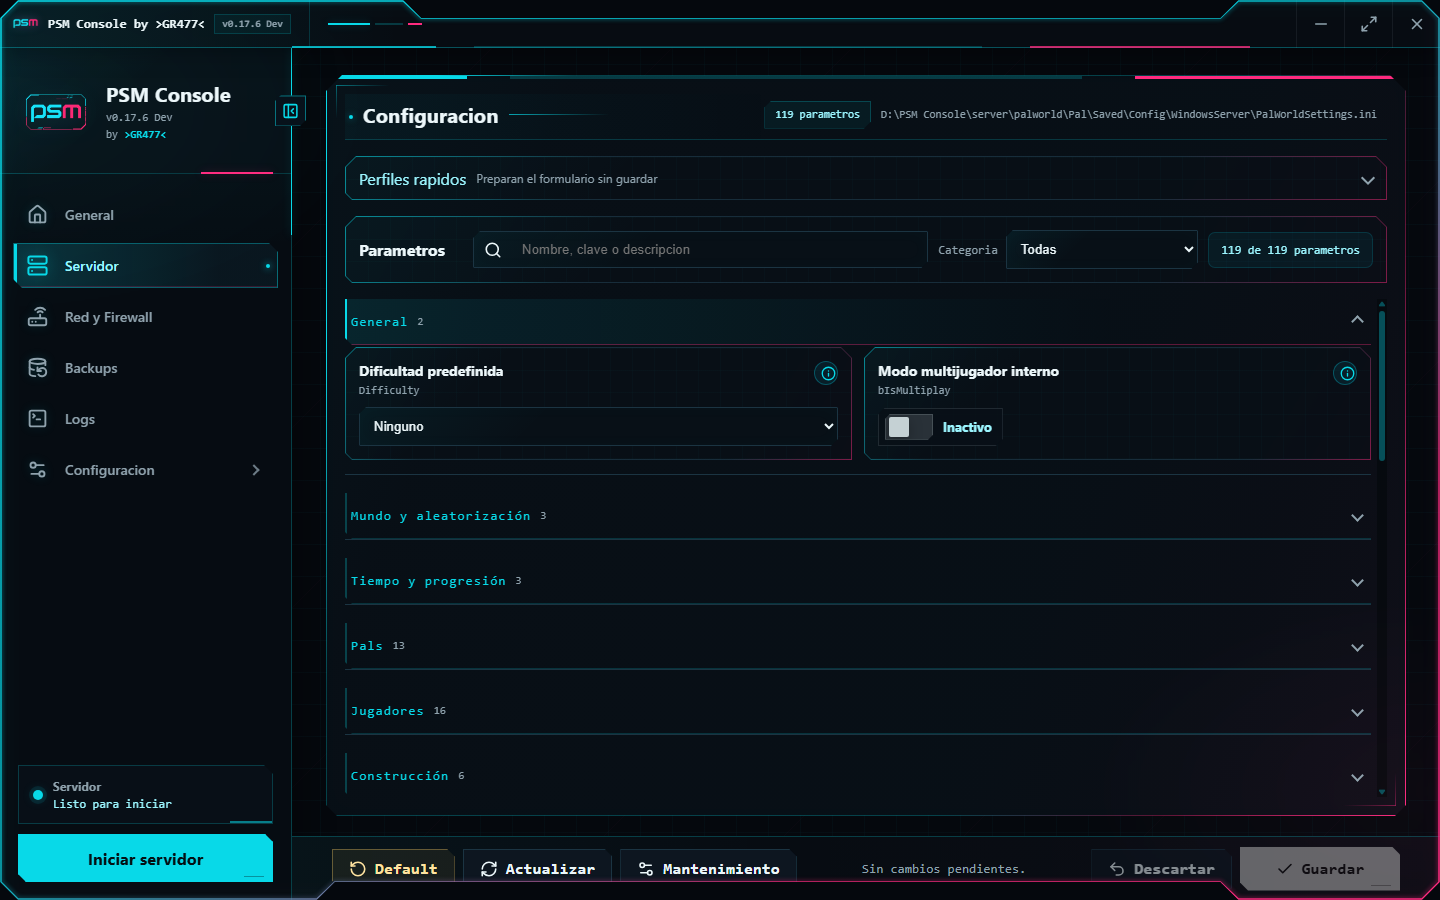
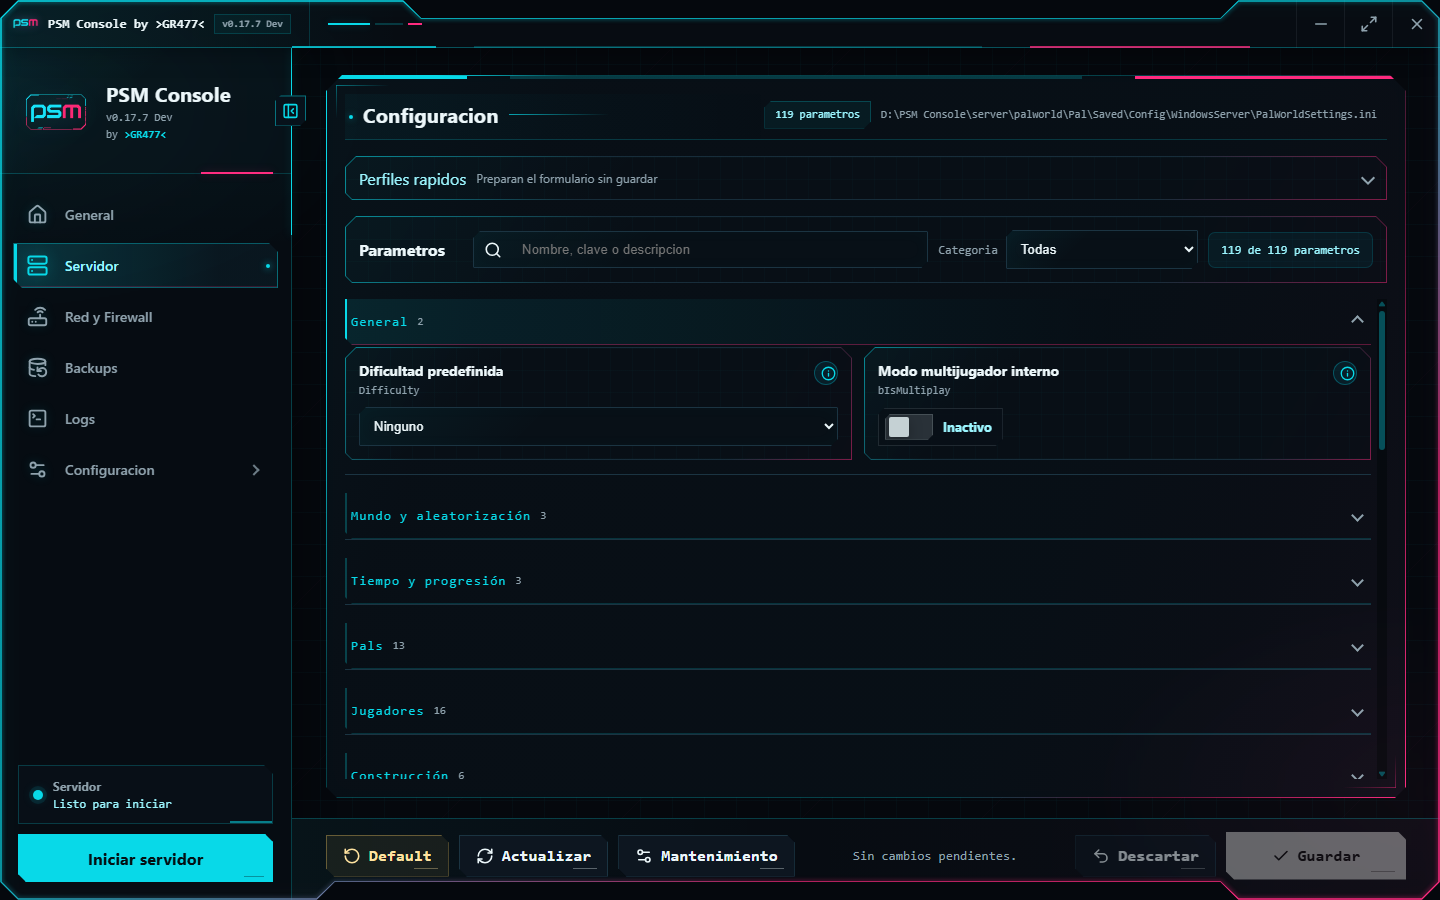
fix(ui): separa acciones de la silueta

Changed region(s): [[0.2188, 0.8711, 1.0, 0.9956]]

diff --git a/scripts/capture-responsive-screenshots.js b/scripts/capture-responsive-screenshots.js
@@ -13,8 +13,8 @@ const viewports = [
   { name: 'vertical', width: 1100, height: 1200 }
 ];
 const views = [
-  { name: 'general', nav: 'home' },
-  { name: 'servidor', nav: 'server' },
+  { name: 'general', nav: 'home', readySelector: '.general-primary-grid' },
+  { name: 'servidor', nav: 'server', readySelector: '.settings-group' },
   { name: 'red-firewall', nav: 'network' },
   { name: 'backups', nav: 'backups' },
   { name: 'logs', nav: 'logs' },
@@ -31,8 +31,8 @@ const views = [
   }
 ];
 const manualViews = [
-  { name: 'general', selector: '.sidebar__link[data-nav="home"]', waitMs: 1200 },
-  { name: 'servidor', selector: '.sidebar__link[data-nav="server"]', waitMs: 1200 },
+  { name: 'general', selector: '.sidebar__link[data-nav="home"]', readySelector: '.general-primary-grid', waitMs: 1200 },
+  { name: 'servidor', selector: '.sidebar__link[data-nav="server"]', readySelector: '.settings-group', waitMs: 1200 },
   { name: 'red-firewall', selector: '.sidebar__link[data-nav="network"]', waitMs: 5500 },
   { name: 'backups', selector: '.sidebar__link[data-nav="backups"]', waitMs: 1200 },
   { name: 'logs', selector: '.sidebar__link[data-nav="logs"]', waitMs: 900, fixtureLogs: true },
@@ -102,6 +102,9 @@ async function capture(window, viewport, view) {
     `);
     await waitForSelector(window, `${view.selector}.sidebar__link--active`);
     await wait(500);
+  }
+  if (view.readySelector) {
+    await waitForSelector(window, view.readySelector, 30000);
   }
   const image = await capturePageWithRetry(window);
   writeFileSync(
@@ -329,6 +332,9 @@ async function waitForEnabledNavigation(window, nav, timeoutMs = 30000) {
 async function writeManualScreenshot(window, outputDir, view) {
   await openManualView(window, view);
   await waitForSelectorRemoved(window, '.view-loading-overlay');
+  if (view.readySelector) {
+    await waitForSelector(window, view.readySelector, 30000);
+  }
   if (view.name === 'servidor') {
     await window.webContents.executeJavaScript(`
       (() => {
@@ -356,6 +362,15 @@ async function captureManualScreenshots(window) {
   mkdirSync(manualOutputDir, { recursive: true });
   window.setSize(1440, 900);
   await wait(400);
+
+  if (requestedView && requestedView !== 'general') {
+    const generalView = manualViews.find((view) => view.name === 'general');
+    if (generalView) {
+      await openManualView(window, generalView);
+      await waitForSelectorRemoved(window, '.view-loading-overlay');
+      await waitForSelector(window, generalView.readySelector, 30000);
+    }
+  }
 
   for (const view of selectedViews) {
     await writeManualScreenshot(window, manualOutputDir, view);

diff --git a/src/renderer/styles.css b/src/renderer/styles.css
@@ -5808,15 +5808,20 @@ html.window-maximized .tactical-window-frame {
 .app-footer--server:not(.app-footer--confirm) {
   display: grid;
   grid-template-columns: minmax(0, auto) minmax(150px, 1fr) minmax(0, auto);
-  gap: 16px;
-  padding-block: 8px;
+  gap: 18px;
+  min-height: 82px;
+  padding: 10px clamp(22px, 3vw, 34px) 18px;
 }
 
 .server-footer__actions {
   display: flex;
   align-items: center;
-  gap: 8px;
+  gap: 10px;
   min-width: 0;
+}
+
+.app-footer--server .server-footer__actions .secondary-button {
+  min-height: 42px;
 }
 
 .server-footer__actions--maintenance {
@@ -5835,13 +5840,24 @@ html.window-maximized .tactical-window-frame {
 }
 
 .app-footer--server #save-config {
-  min-width: 160px;
-  min-height: 44px;
-  padding-inline: 28px;
+  min-width: 180px;
+  min-height: 48px;
+  padding-inline: 34px;
 }
 
 .app-footer--server #discard-config {
   min-width: 124px;
+}
+
+.app-footer--server .primary-button::after,
+.app-footer--server .secondary-button::after {
+  right: 10px;
+  bottom: 7px;
+  width: 24px;
+}
+
+#app.app--footer-visible:has(.app-footer--server:not(.hidden)) .workspace {
+  bottom: 82px;
 }
 
 .setting-field input:not([type="range"]),
@@ -6362,11 +6378,11 @@ html.window-maximized .tactical-window-frame {
 
 @media (max-width: 1280px) {
   #app.app--footer-visible .workspace {
-    bottom: 108px;
+    bottom: 120px;
   }
 
   .app-footer--server:not(.app-footer--confirm) {
-    min-height: 108px;
+    min-height: 120px;
   }
 }
 

diff --git a/src/shared/constants/app-info.ts b/src/shared/constants/app-info.ts
@@ -6,7 +6,7 @@ export const APP_INFO = {
   appId: 'com.palcm.servermanager',
   authorAlias: '>GR477<',
   authorName: 'Alexis Joel Dávila',
-  version: '0.17.6',
+  version: '0.17.7',
   channel: 'Dev'
 } as const;
 

diff --git a/README.md b/README.md
@@ -81,6 +81,6 @@ npm.cmd run start:dev
 
 ## Estado del proyecto
 
-Versión actual: `0.17.6 Dev`.
+Versión actual: `0.17.7 Dev`.
 
 Palworld, Steam y SteamCMD son marcas de sus respectivos propietarios. Este proyecto es una herramienta independiente y no está afiliado con Pocketpair ni Valve.
